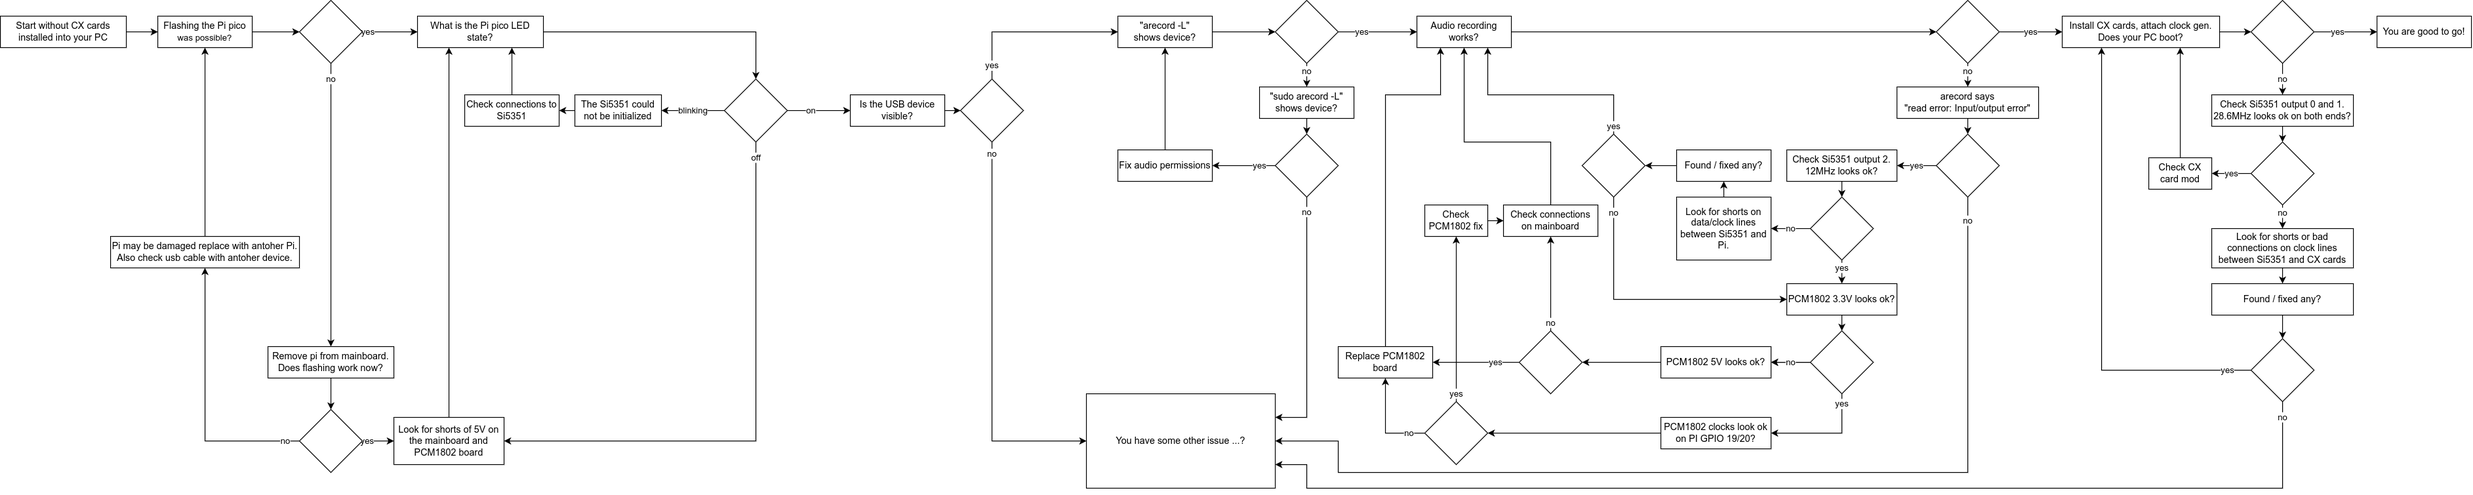
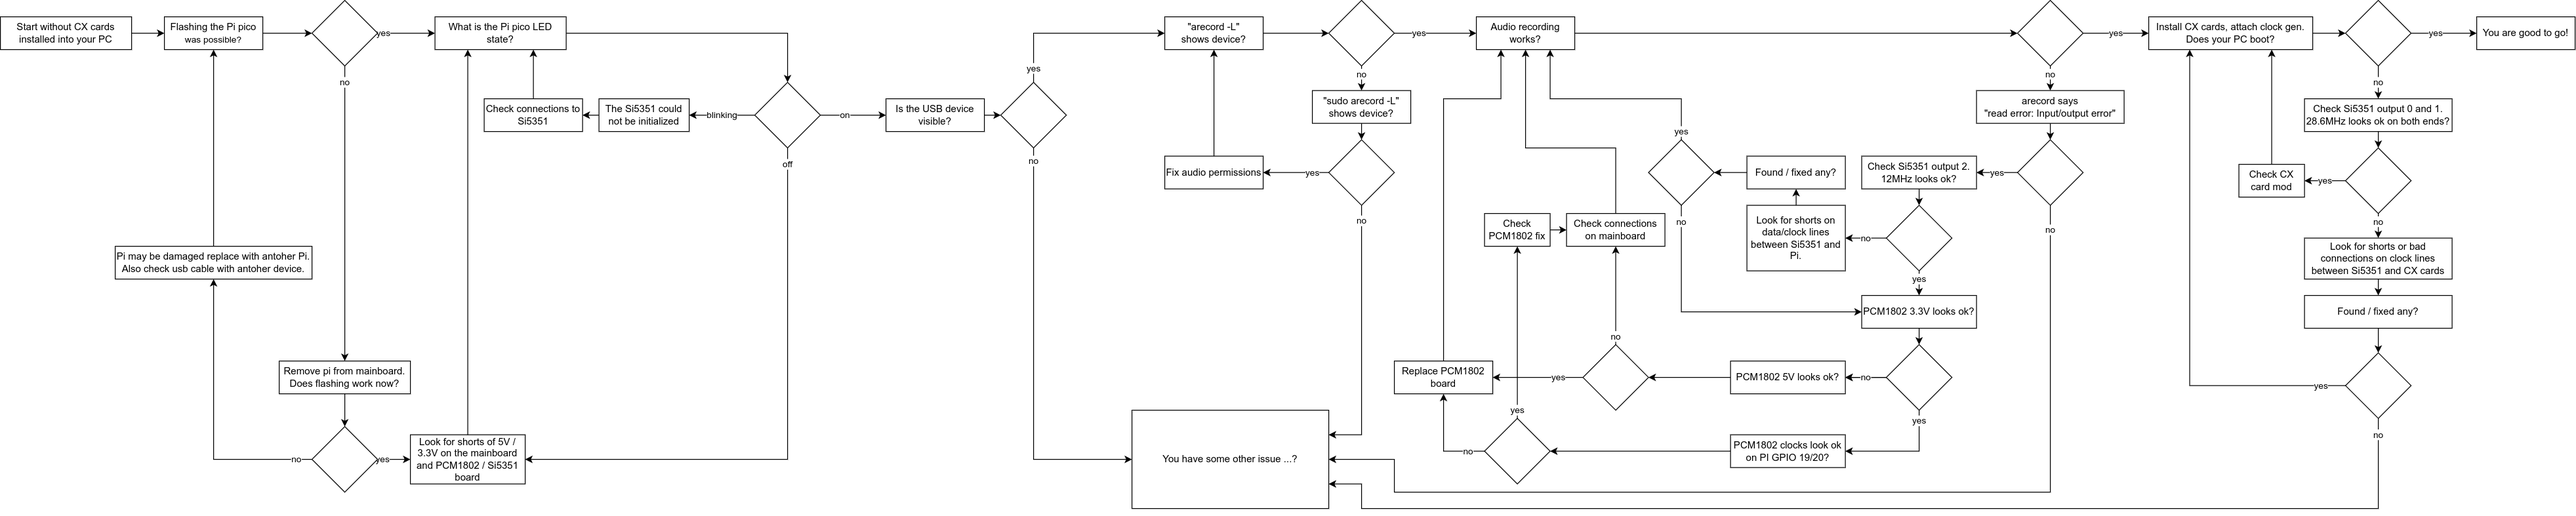
Resolve "A few improvements to the trouble shooting guide"

diff --git a/build-guide/README.md b/build-guide/README.md
@@ -314,14 +314,19 @@ Since firmware version 1.1.0, after booting the LED can have 3 states:
 - blinking at about 2 Hz: the Si5351 clock generator could not be found
 - on: booting finished normally
 
-### Look for shorts of 5V on the mainboard and PCM1802 board
+### Look for shorts of 5V / 3.3V on the mainboard and PCM1802 / Si5351 board
 
 The following needs a multimeter. 
 Unplug all subboards from the mainboard, and test individually, then combined:
 - confirm no continuity between the 5V and GND on the PCM1802 board and mainboard.
 - confirm no continuity between the 5V / VBus on the Pi and GND.
+- confirm no continuity between the 3.3V / Vin and GND on the Si5351 board and mainboard.
 - confirm continuity on 5V / VBus across all boards.
 - confirm continuity on GND across all boards.
+
+Note both the PCM1802 and Si5351 have passive and active component on them.
+This will cause a reading of a couple 100k Ohms from any of 3.3V/5V pins to GND on the boards.
+This is normal and only if your reading is below about 1000 / 1k Ohms it should be counted as a short.
 
 ### Check connections to Si5351
 
